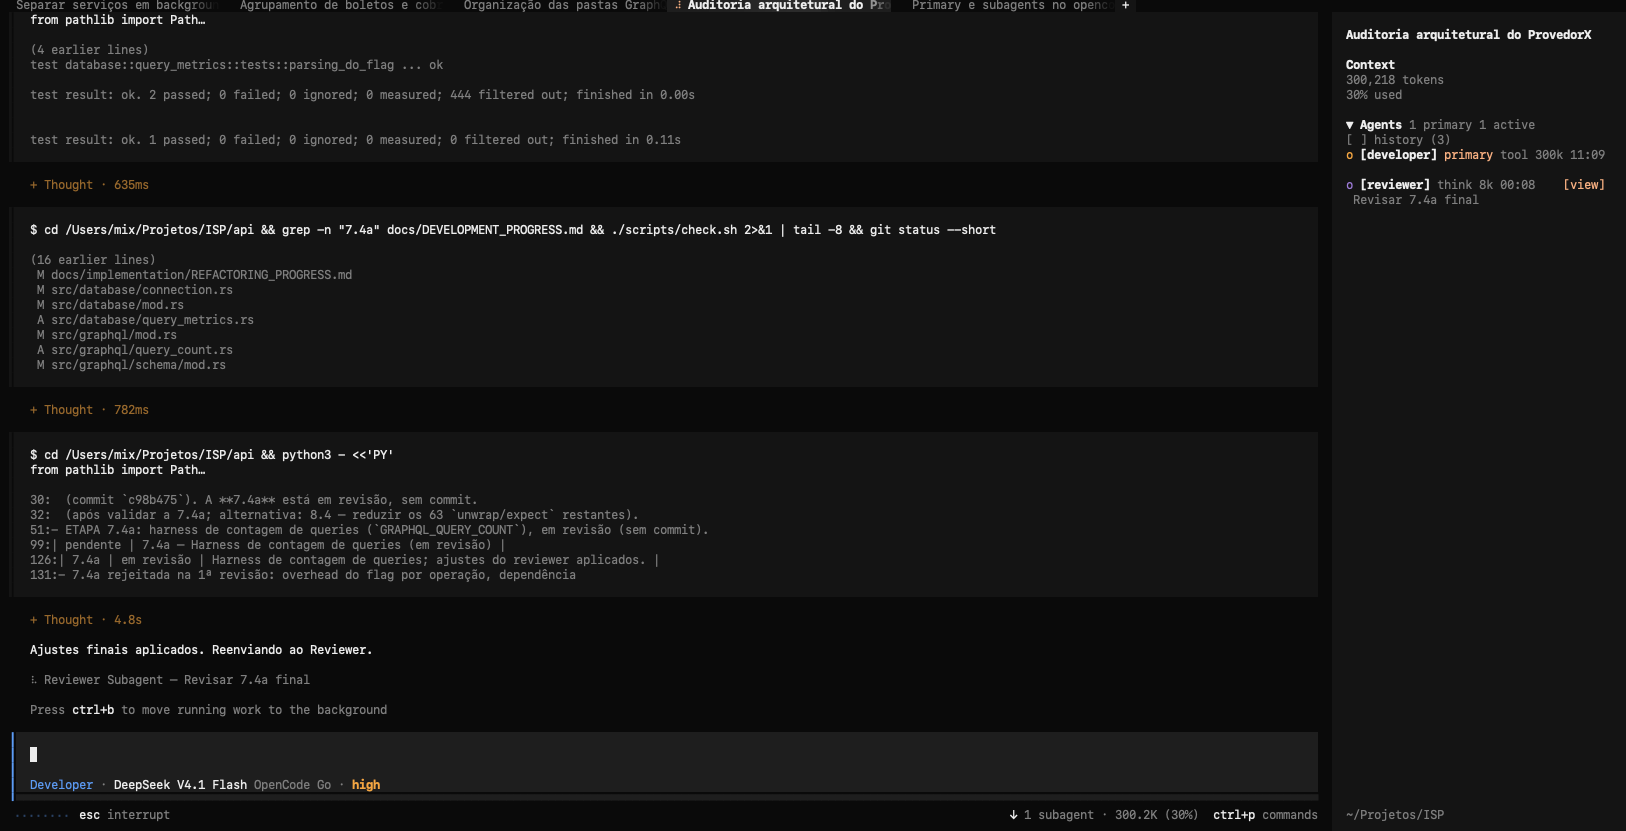
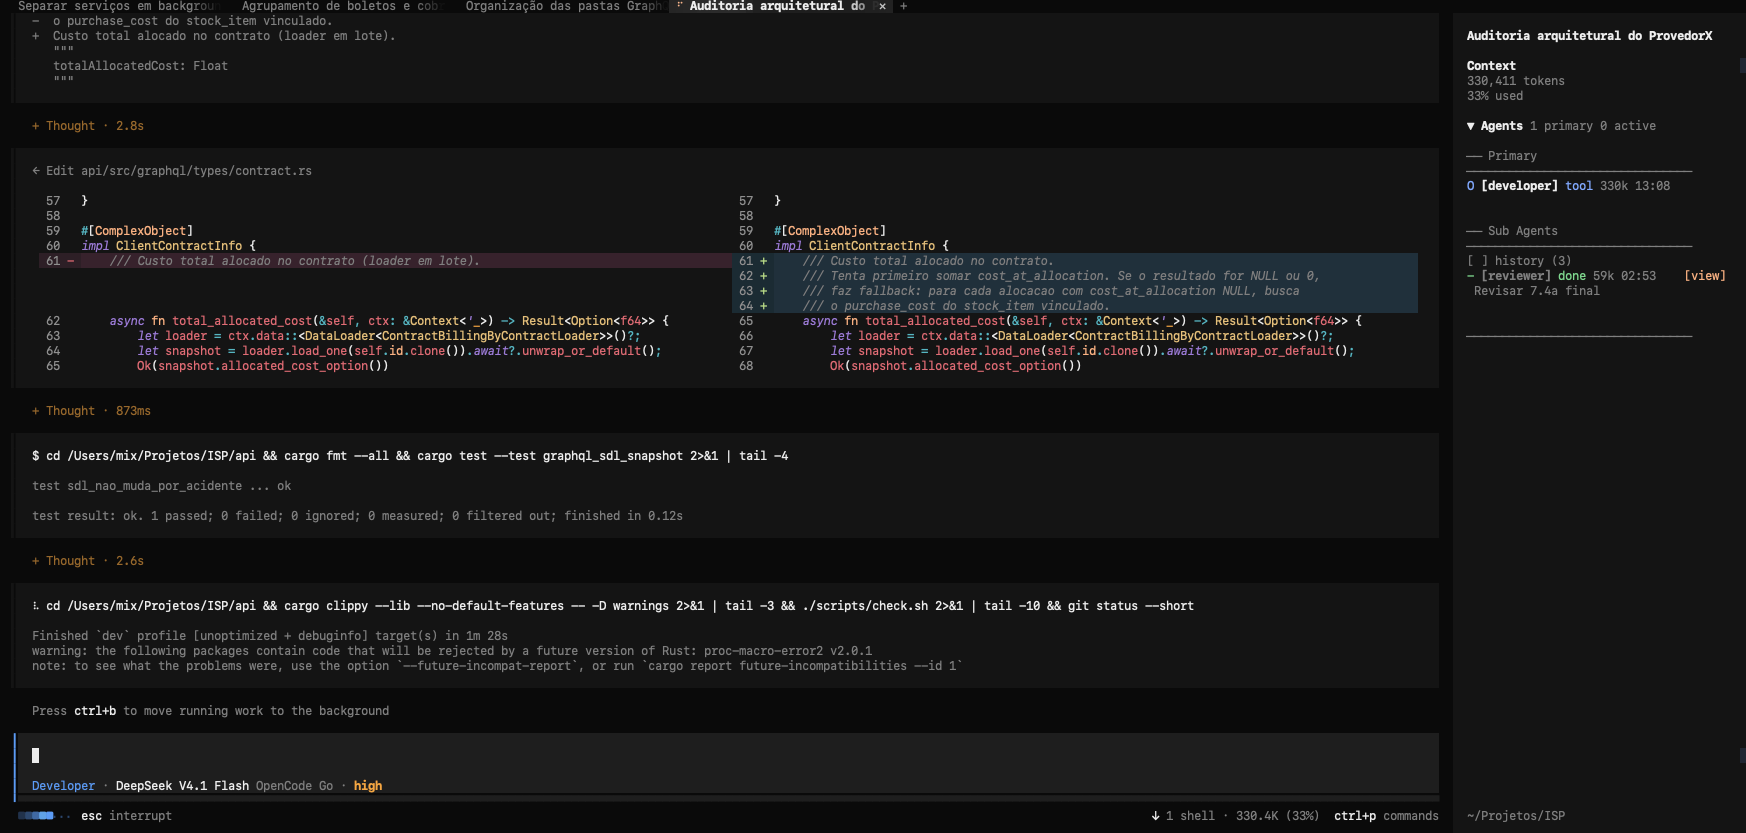
docs: reorder screenshots and add done-work example

diff --git a/README.md b/README.md
@@ -25,9 +25,9 @@ Expand an agent for its model, current tool, and cost. When you need the full st
 <p align="center"><sub>Primary agent and live sub-agent progress</sub></p>
 
 <p align="center">
-  <img src="assets/opencode-agents-monitor-2.png" alt="Agents sidebar keeping idle sub-agents visible with a dimmed indicator">
+  <img src="assets/opencode-agents-monitor-2.png" alt="Agents sidebar showing a sub-agent with done work">
 </p>
-<p align="center"><sub>Idle sub-agents stay visible; older runs sit behind the history checkbox</sub></p>
+<p align="center"><sub>Sub-agent done work</sub></p>
 
 ### Why use it?
 

diff --git a/README.zh-CN.md b/README.zh-CN.md
@@ -25,9 +25,9 @@
 <p align="center"><sub>主代理与子代理的实时进度</sub></p>
 
 <p align="center">
-  <img src="assets/opencode-agents-monitor-2.png" alt="Agents 侧栏用暗色指示器保持空闲子代理可见">
+  <img src="assets/opencode-agents-monitor-2.png" alt="Agents 侧栏显示已完成工作的子代理">
 </p>
-<p align="center"><sub>空闲子代理保持可见，较早的记录放在 history 复选框后面</sub></p>
+<p align="center"><sub>子代理完成的工作</sub></p>
 
 ### 为什么需要它？
 
